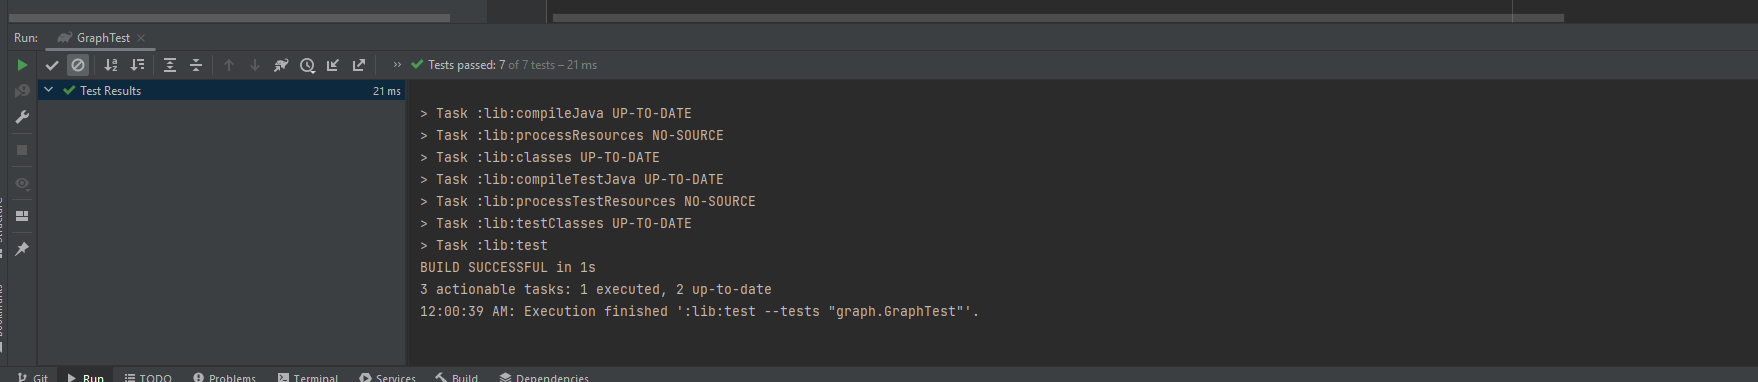
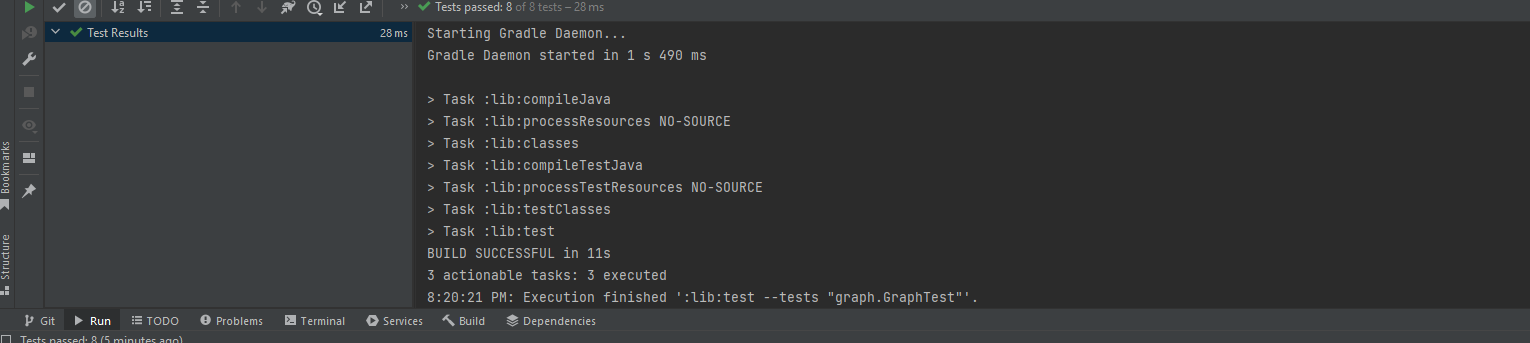
36

diff --git a/graph/lib/src/main/java/graph/Graph.java b/graph/lib/src/main/java/graph/Graph.java
@@ -1,4 +1,5 @@
 package graph;
+
 import java.util.*;
 
 public class Graph {
@@ -33,7 +34,6 @@ public class Graph {
         List<Edge> edges1 = adjacencyList.get(vertex1);
         List<Edge> edges2 = adjacencyList.get(vertex2);
 
-        // Check if the edge already exists
         if (edges1.stream().noneMatch(edge -> edge.targetVertex == vertex2)) {
             edges1.add(new Edge(vertex2, weight));
             edges2.add(new Edge(vertex1, weight));
@@ -51,6 +51,29 @@ public class Graph {
 
     public int size() {
         return adjacencyList.size();
+    }
+
+    public List<Integer> breadthFirst(int startVertex) {
+        List<Integer> result = new ArrayList<>();
+        Queue<Integer> queue = new LinkedList<>();
+        Set<Integer> visited = new HashSet<>();
+
+        queue.add(startVertex);
+        visited.add(startVertex);
+
+        while (!queue.isEmpty()) {
+            int currentVertex = queue.poll();
+            result.add(currentVertex);
+
+            for (Edge edge : adjacencyList.get(currentVertex)) {
+                if (!visited.contains(edge.targetVertex)) {
+                    queue.add(edge.targetVertex);
+                    visited.add(edge.targetVertex);
+                }
+            }
+        }
+
+        return result;
     }
 
     private void validateVerticesExist(int vertex1, int vertex2) {
@@ -76,11 +99,18 @@ public class Graph {
 
         int vertex1 = graph.addVertex(1);
         int vertex2 = graph.addVertex(2);
+        int vertex3 = graph.addVertex(3);
+        int vertex4 = graph.addVertex(4);
 
         graph.addEdge(vertex1, vertex2, 10);
+        graph.addEdge(vertex1, vertex3, 15);
+        graph.addEdge(vertex2, vertex4, 20);
 
         System.out.println("Vertices: " + graph.getVertices());
         System.out.println("Neighbors of vertex 1: " + graph.getNeighbors(vertex1));
+
+        List<Integer> bfsResult = graph.breadthFirst(vertex1);
+        System.out.println("Breadth-First Traversal: " + bfsResult);
         System.out.println("Graph Size: " + graph.size());
     }
 }
@@ -102,4 +132,3 @@ class SelfLoopException extends RuntimeException {
         super(message);
     }
 }
-

diff --git a/graph/lib/src/test/java/graph/GraphTest.java b/graph/lib/src/test/java/graph/GraphTest.java
@@ -65,7 +65,6 @@ class GraphTest {
         int vertex1 = graph.addVertex(1);
 
         assertThrows(SelfLoopException.class, () -> graph.addEdge(vertex1, vertex1, 5));
-
     }
 
     @Test
@@ -75,5 +74,22 @@ class GraphTest {
 
         assertThrows(SelfLoopException.class, () -> graph.addEdge(vertex1, vertex1, 5));
     }
-}
 
+    @Test
+    void testBreadthFirstTraversal() {
+        Graph graph = new Graph();
+        int vertex1 = graph.addVertex(1);
+        int vertex2 = graph.addVertex(2);
+        int vertex3 = graph.addVertex(3);
+        int vertex4 = graph.addVertex(4);
+        int vertex5 = graph.addVertex(5);
+
+        graph.addEdge(vertex1, vertex2, 10);
+        graph.addEdge(vertex1, vertex3, 15);
+        graph.addEdge(vertex2, vertex4, 20);
+        graph.addEdge(vertex3, vertex5, 25);
+
+        List<Integer> bfsResult = graph.breadthFirst(vertex1);
+        assertEquals(List.of(1, 2, 3, 4, 5), bfsResult);
+    }
+}

diff --git a/graph/36.md b/graph/36.md
@@ -1,0 +1,29 @@
+# Graph- Breadth-First
+given a graph represented by nodes and edges. Each node in the graph has a unique value, and edges connect nodes to represent relationships between them. Your task is to implement the breadthFirst method, which takes a starting node as an argument and returns a collection of nodes in the order they were visited during the breadth-first traversal.
+## Whiteboard Process
+![a.drawio.png](..%2F..%2F..%2F..%2FDownloads%2Fa.drawio.png)
+## Approach & Efficiency
+Time Complexity: O(N + E)
+Space Complexity: O(N)
+
+
+
+Initialize Data Structures:
+
+Create a queue to store nodes to be visited (Queue<Node>).
+Create a set to keep track of visited nodes (Set<Node>).
+Create a list to store the result of the traversal (List<Node>).
+Enqueue the Start Node:
+
+Enqueue the starting node into the queue.
+Add the starting node to the visited set.
+Breadth-First Traversal Loop:
+
+While the queue is not empty:
+Dequeue a node from the front of the queue.
+Process the node (e.g., add it to the result list, display its value).
+Enqueue all unvisited neighbors of the current node.
+Add the current node to the visited set.
+
+## Solution
+![Capture.PNG](Capture.PNG)
